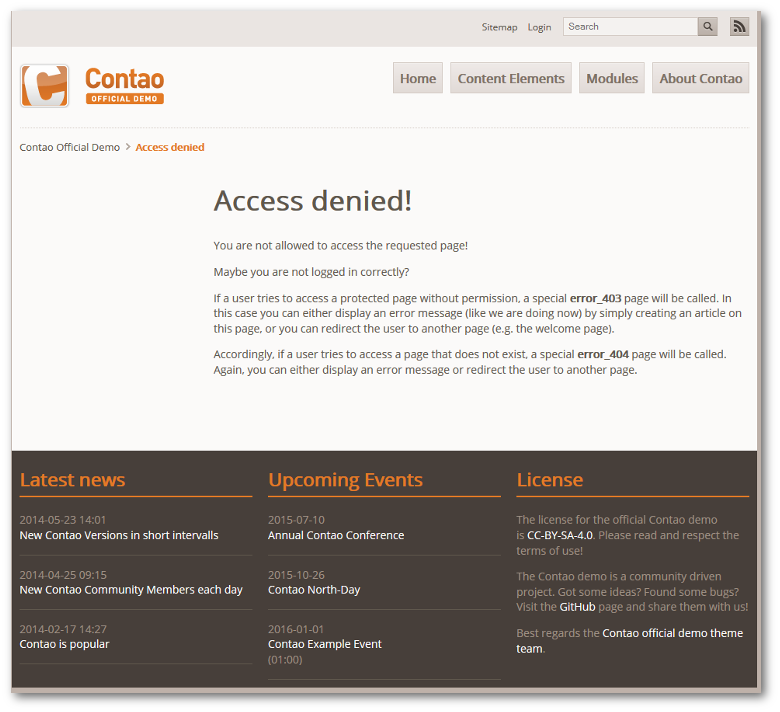
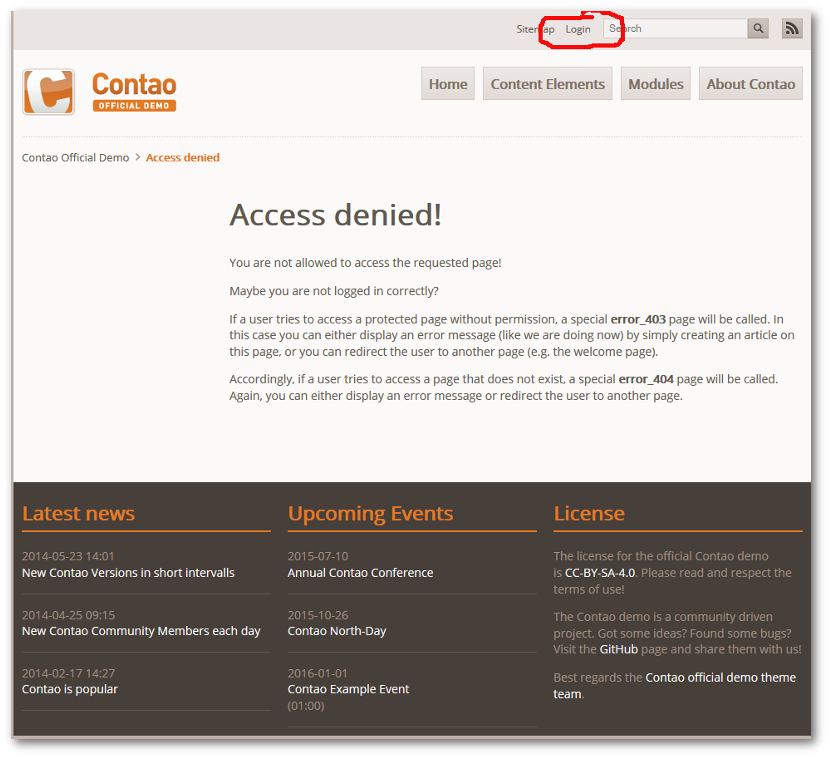
Frontend Ausgabe

diff --git a/de/frontend.md b/de/frontend.md
@@ -1,9 +1,15 @@
 ## Ausgabe im Frontend
 
-Wenn Sie als Theme das `Contao Official Demo` installiert und aktiviert haben und dieser Dokumentation gefolgt sind, sollte jetzt im Frontend eine Seite gezeigt werden, die Sie darauf hinweist, dass der Zugriff nicht erlaubt ist.
+Wenn Sie als Theme das [Contao Official Demo](officialDemo.md) installiert und aktiviert haben und dieser Dokumentation gefolgt sind, sollte jetzt im Frontend eine Seite gezeigt werden, die Sie darauf hinweist, dass der Zugriff nicht erlaubt ist.
 
-![](img/frontend01.png)
+
 
 Und das ist gut so, denn nur dann haben Sie auch wirklich Ihre Seite mit der Ausgabe persönlicher Daten vor einem Zugriff durch Unberechtigte geschützt.
 
 Loggen Sie sich jetzt unter der im Punkt [Vereinsmitglieder anlegen](mitglieder.md) vergebenen Zugangsdaten ein!
+
+![](img/frontend01.png)
+
+Sie sollten jetzt begrüßt werden und ein neuer Menüpunkt für die Auswertungen unserer im Backend eingegeben Daten sollte erscheinen.
+
+![](img/frontend02.png)
